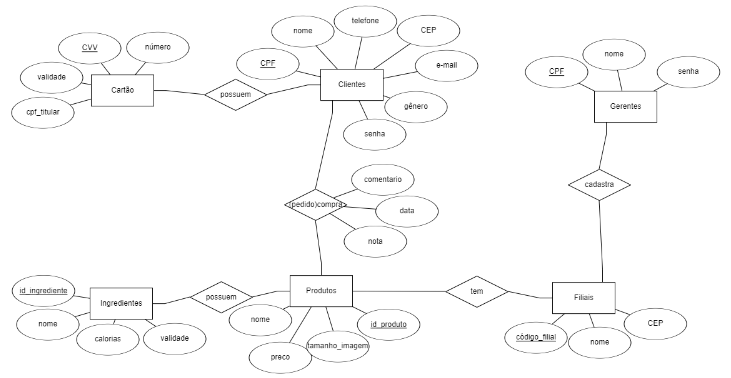
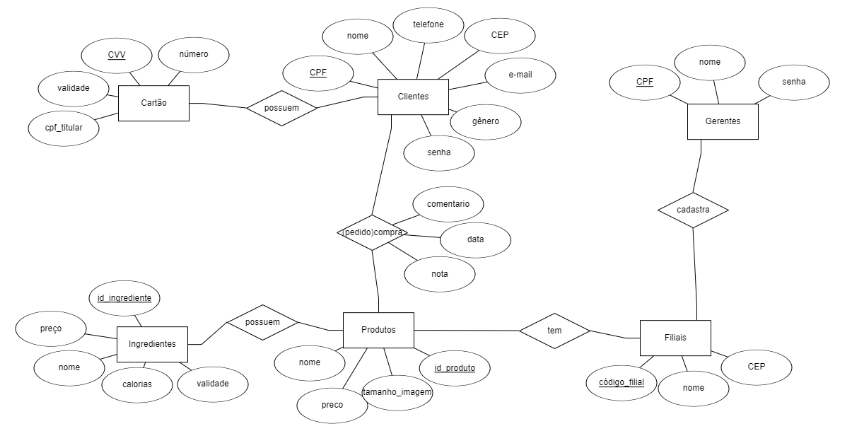
criar ingrediente

diff --git a/main.PY b/main.PY
@@ -94,3 +94,59 @@ for i in range(10, 20):
     print(f"Cartão {numero_cartao} adicional associado ao CPF {cpf}")
   except Exception as e:
     print(f"Erro ao associar cartão {numero_cartao} ao CPF {cpf}: {e}")
+
+#INGREDIENTE
+nome_ingredientes = ["pão italiano", "pão de hamburguer", "pão de hotdog", "carne bovina", "carne suína", "carne de frango", "queijo mussarela", "queijo prato", "queijo cheddar", "queijo gorgonzola", "tomate","alface", "rucula", "cebola", "picles", "molho especial", "molho barbecue", "molho maionese", "molho mostarda", "molho ketchup", "molho maionese", "batata", "cebola roxa", "pimentão", "azeitona", "milho", "ervilha", "frango desfiado", "calabresa", "bacon", "ovo", "presunto", "peito de peru", "peito de frango", "peito de peru", "peito de frango", "peito de peru"]
+
+id_ingredientes = [] #para depois iterar sobre eles e associar ao produto ingrediente
+id_ingrediente = faker.unique.random_int(min=10000, max=99999)
+
+for nomeIngrediente in nome_ingredientes:
+  id_ingrediente = faker.unique.random_int(min=10000, max=99999)
+  validade_ingrediente = faker.date_between(start_date='today', end_date='+10y').isoformat()
+  calorias_ingrediente = random.randint(10, 500)
+  preco_ingrediente = round(random.uniform(0.1, 10.0), 2)
+  id_ingredientes.append(id_ingrediente)
+  try:
+    response = supabase.table('ingrediente').insert({
+        "id_ingrediente": id_ingrediente,
+        "nome_ingrediente": nomeIngrediente,
+        "validade": validade_ingrediente,
+        "calorias": calorias_ingrediente,
+        "preço": preco_ingrediente
+    }).execute()
+    print(f"Ingrediente {nomeIngrediente} adicionado com sucesso!")
+  except Exception as e:
+    print(f"Erro ao adicionar ingrediente {nomeIngrediente}: {e}")
+  
+#PRODUTO
+
+nome_produtos = ["X-Burguer", "X-Salada", "X-Bacon", "X-Frango", "X-Calabresa", "X-Egg", "X-Egg Bacon", "X-Tudo", "X-Especial,", "X-Burguer Maxter", "X-rancho", "X-fazenda","X-incrivel", "X-burguer do chef", "X-feriado"]
+
+id_produtos = [] #para depois iterar sobre eles e associar ao produto ingrediente
+
+for nomeProduto in nome_produtos:
+  codigo_produto = faker.unique.random_int(min=10000, max=99999)
+  preco_produto = round(random.uniform(10.0, 50.0), 2)
+  tamanho_imagem = random.randint(100, 500)
+  id_produtos.append(codigo_produto)
+  try:
+    response = supabase.table('produto').insert({
+        "codigo_produto": codigo_produto,
+        "nome_produto": nomeProduto,
+        "preço": preco_produto,
+        "tamanho_imagem": tamanho_imagem
+    }).execute()
+    print(f"Produto {nomeProduto} adicionado com sucesso!")
+  except Exception as e:
+    print(f"Erro ao adicionar produto {nomeProduto}: {e}")
+
+#PRODUTO INGREDIENTE
+
+#FILIAL
+codigo_filial = faker.unique.random_int(min=10000, max=99999)
+nome_filial = faker.company()
+cep_filial = faker.postcode()
+
+#PEDIDO E AVALIACAO
+

diff --git a/README.md b/README.md
@@ -36,6 +36,7 @@ drop table if exists cartao cascade;
 drop table if exists produto cascade;
 drop table if exists ingrediente cascade;
 drop table if exists pedido_e_avaliacao cascade;
+drop table if exists produtoIngrediente;
 
 --criar tabelas
 
@@ -70,6 +71,7 @@ create table ingrediente
     nome_ingrediente text, 
     calorias text,
     validade text,
+    preço float,
     primary key (id_ingrediente)
     );
 
